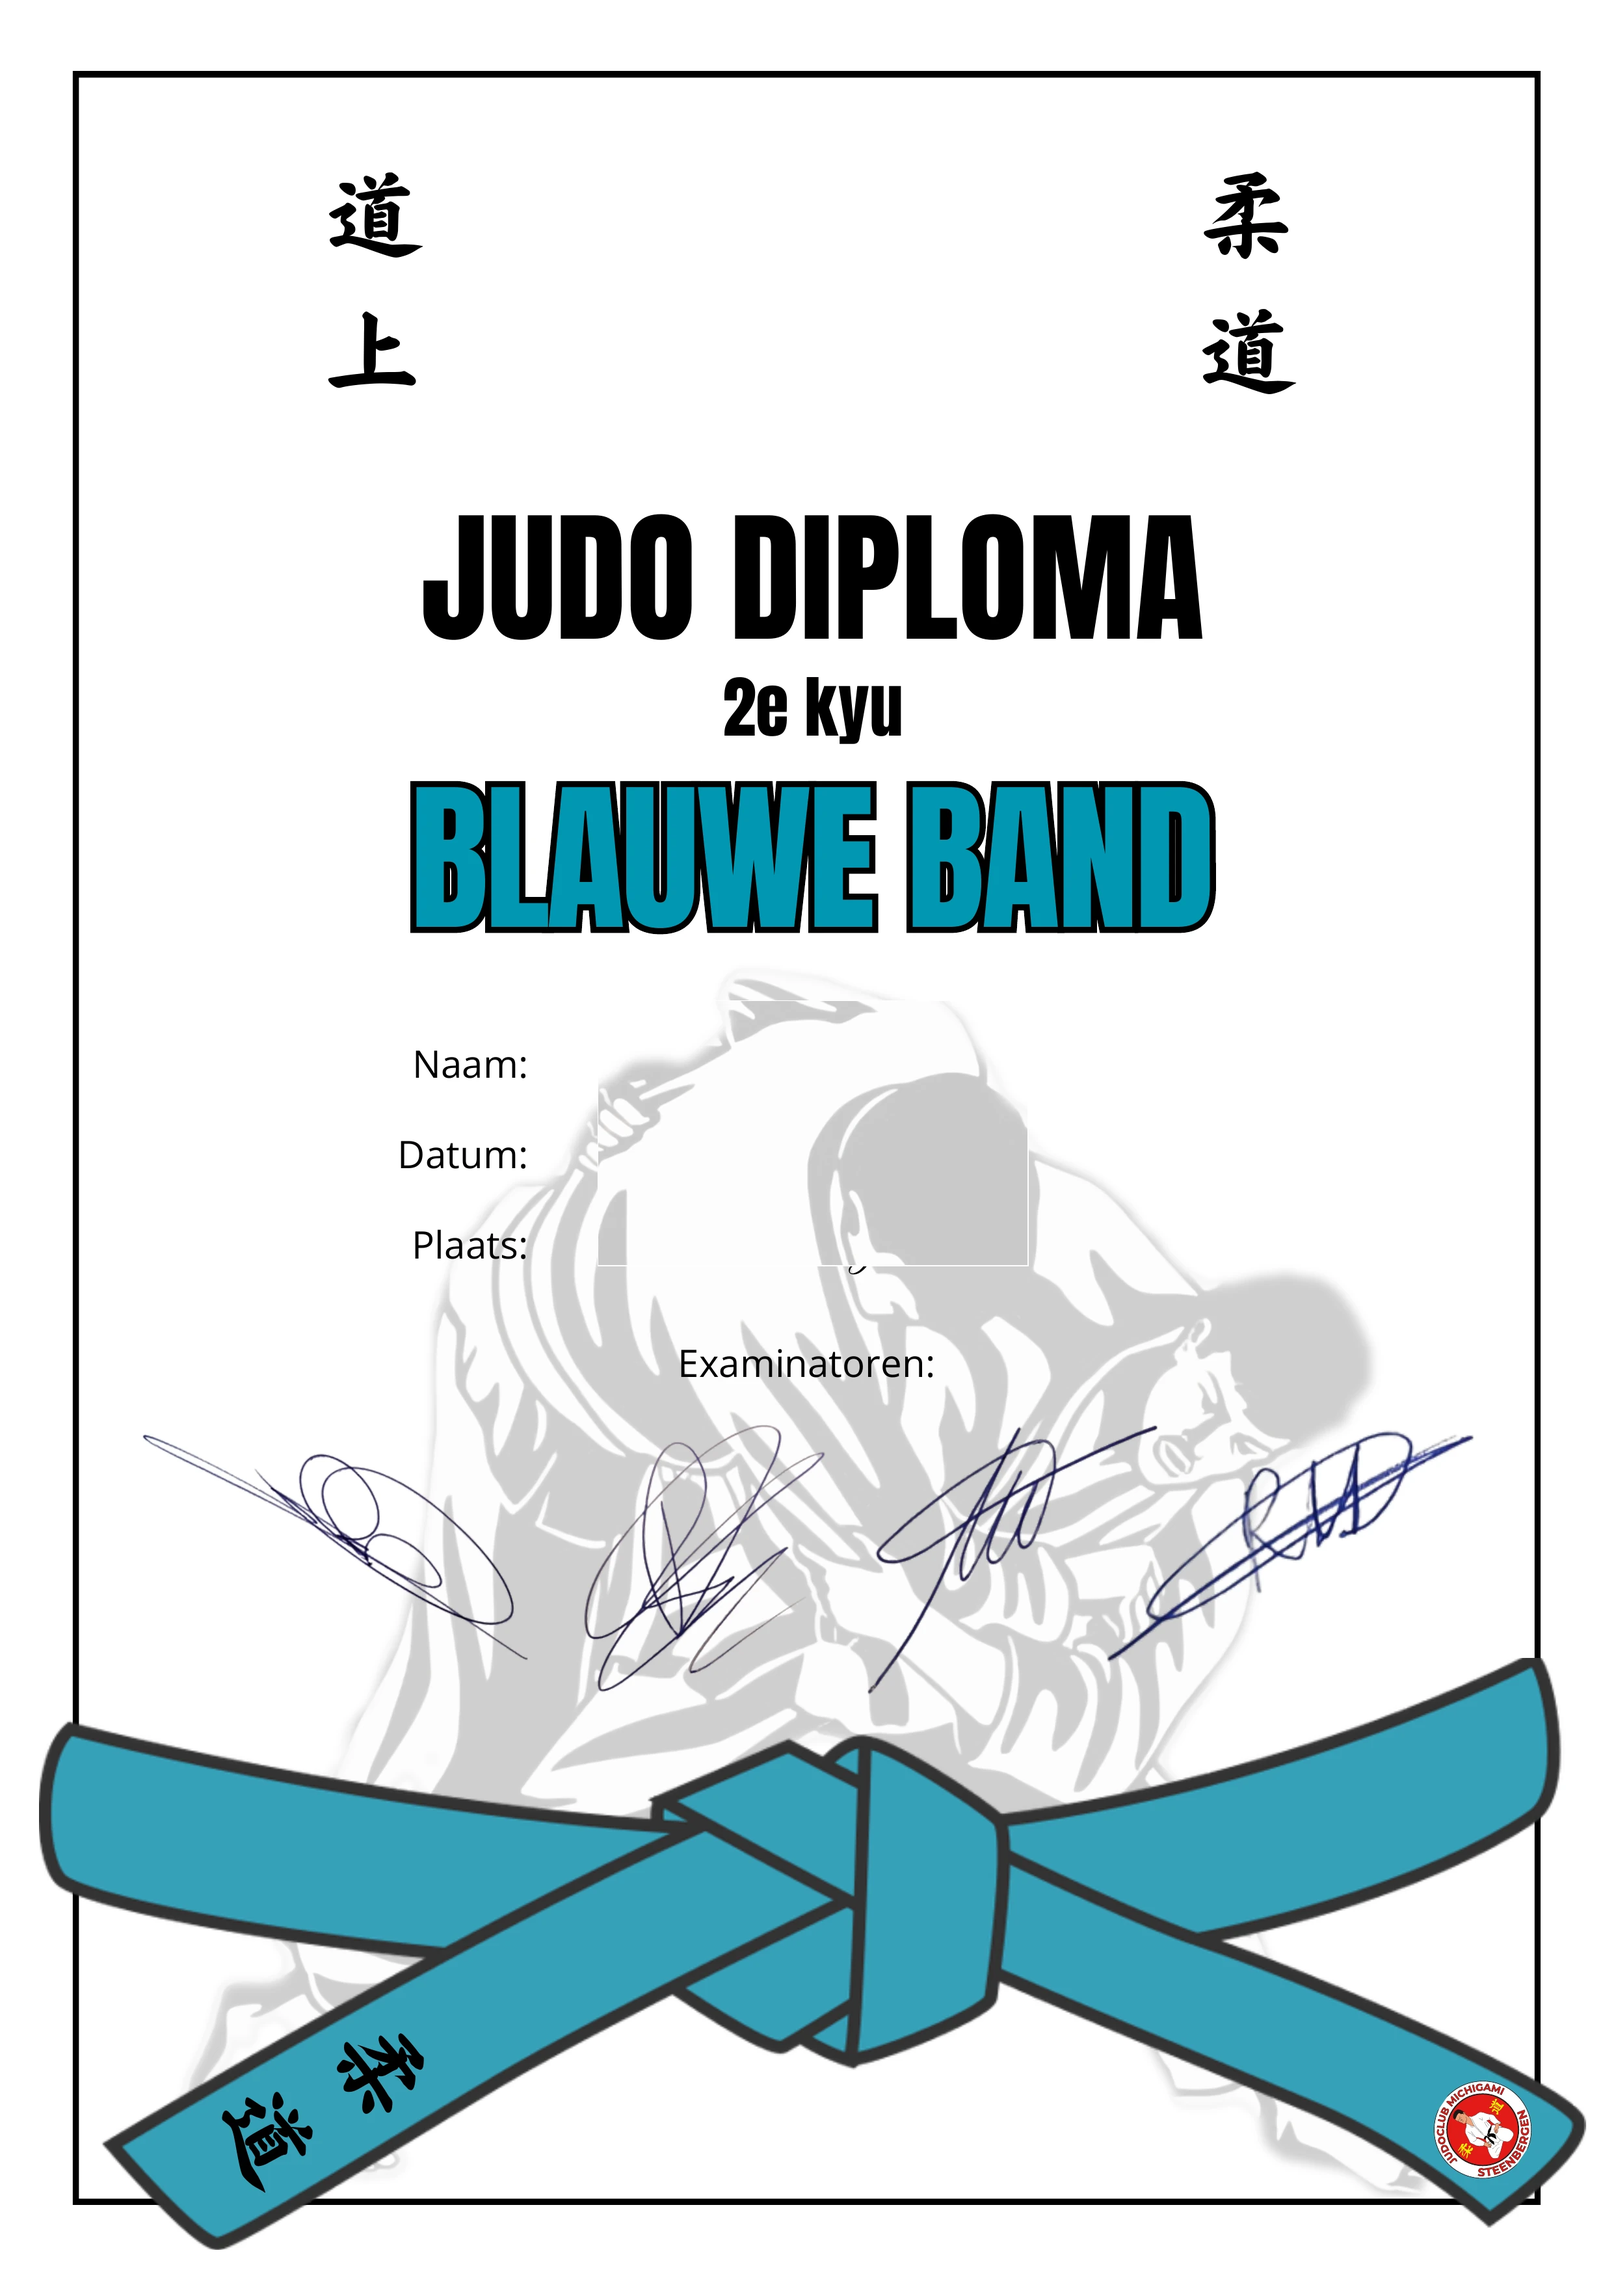
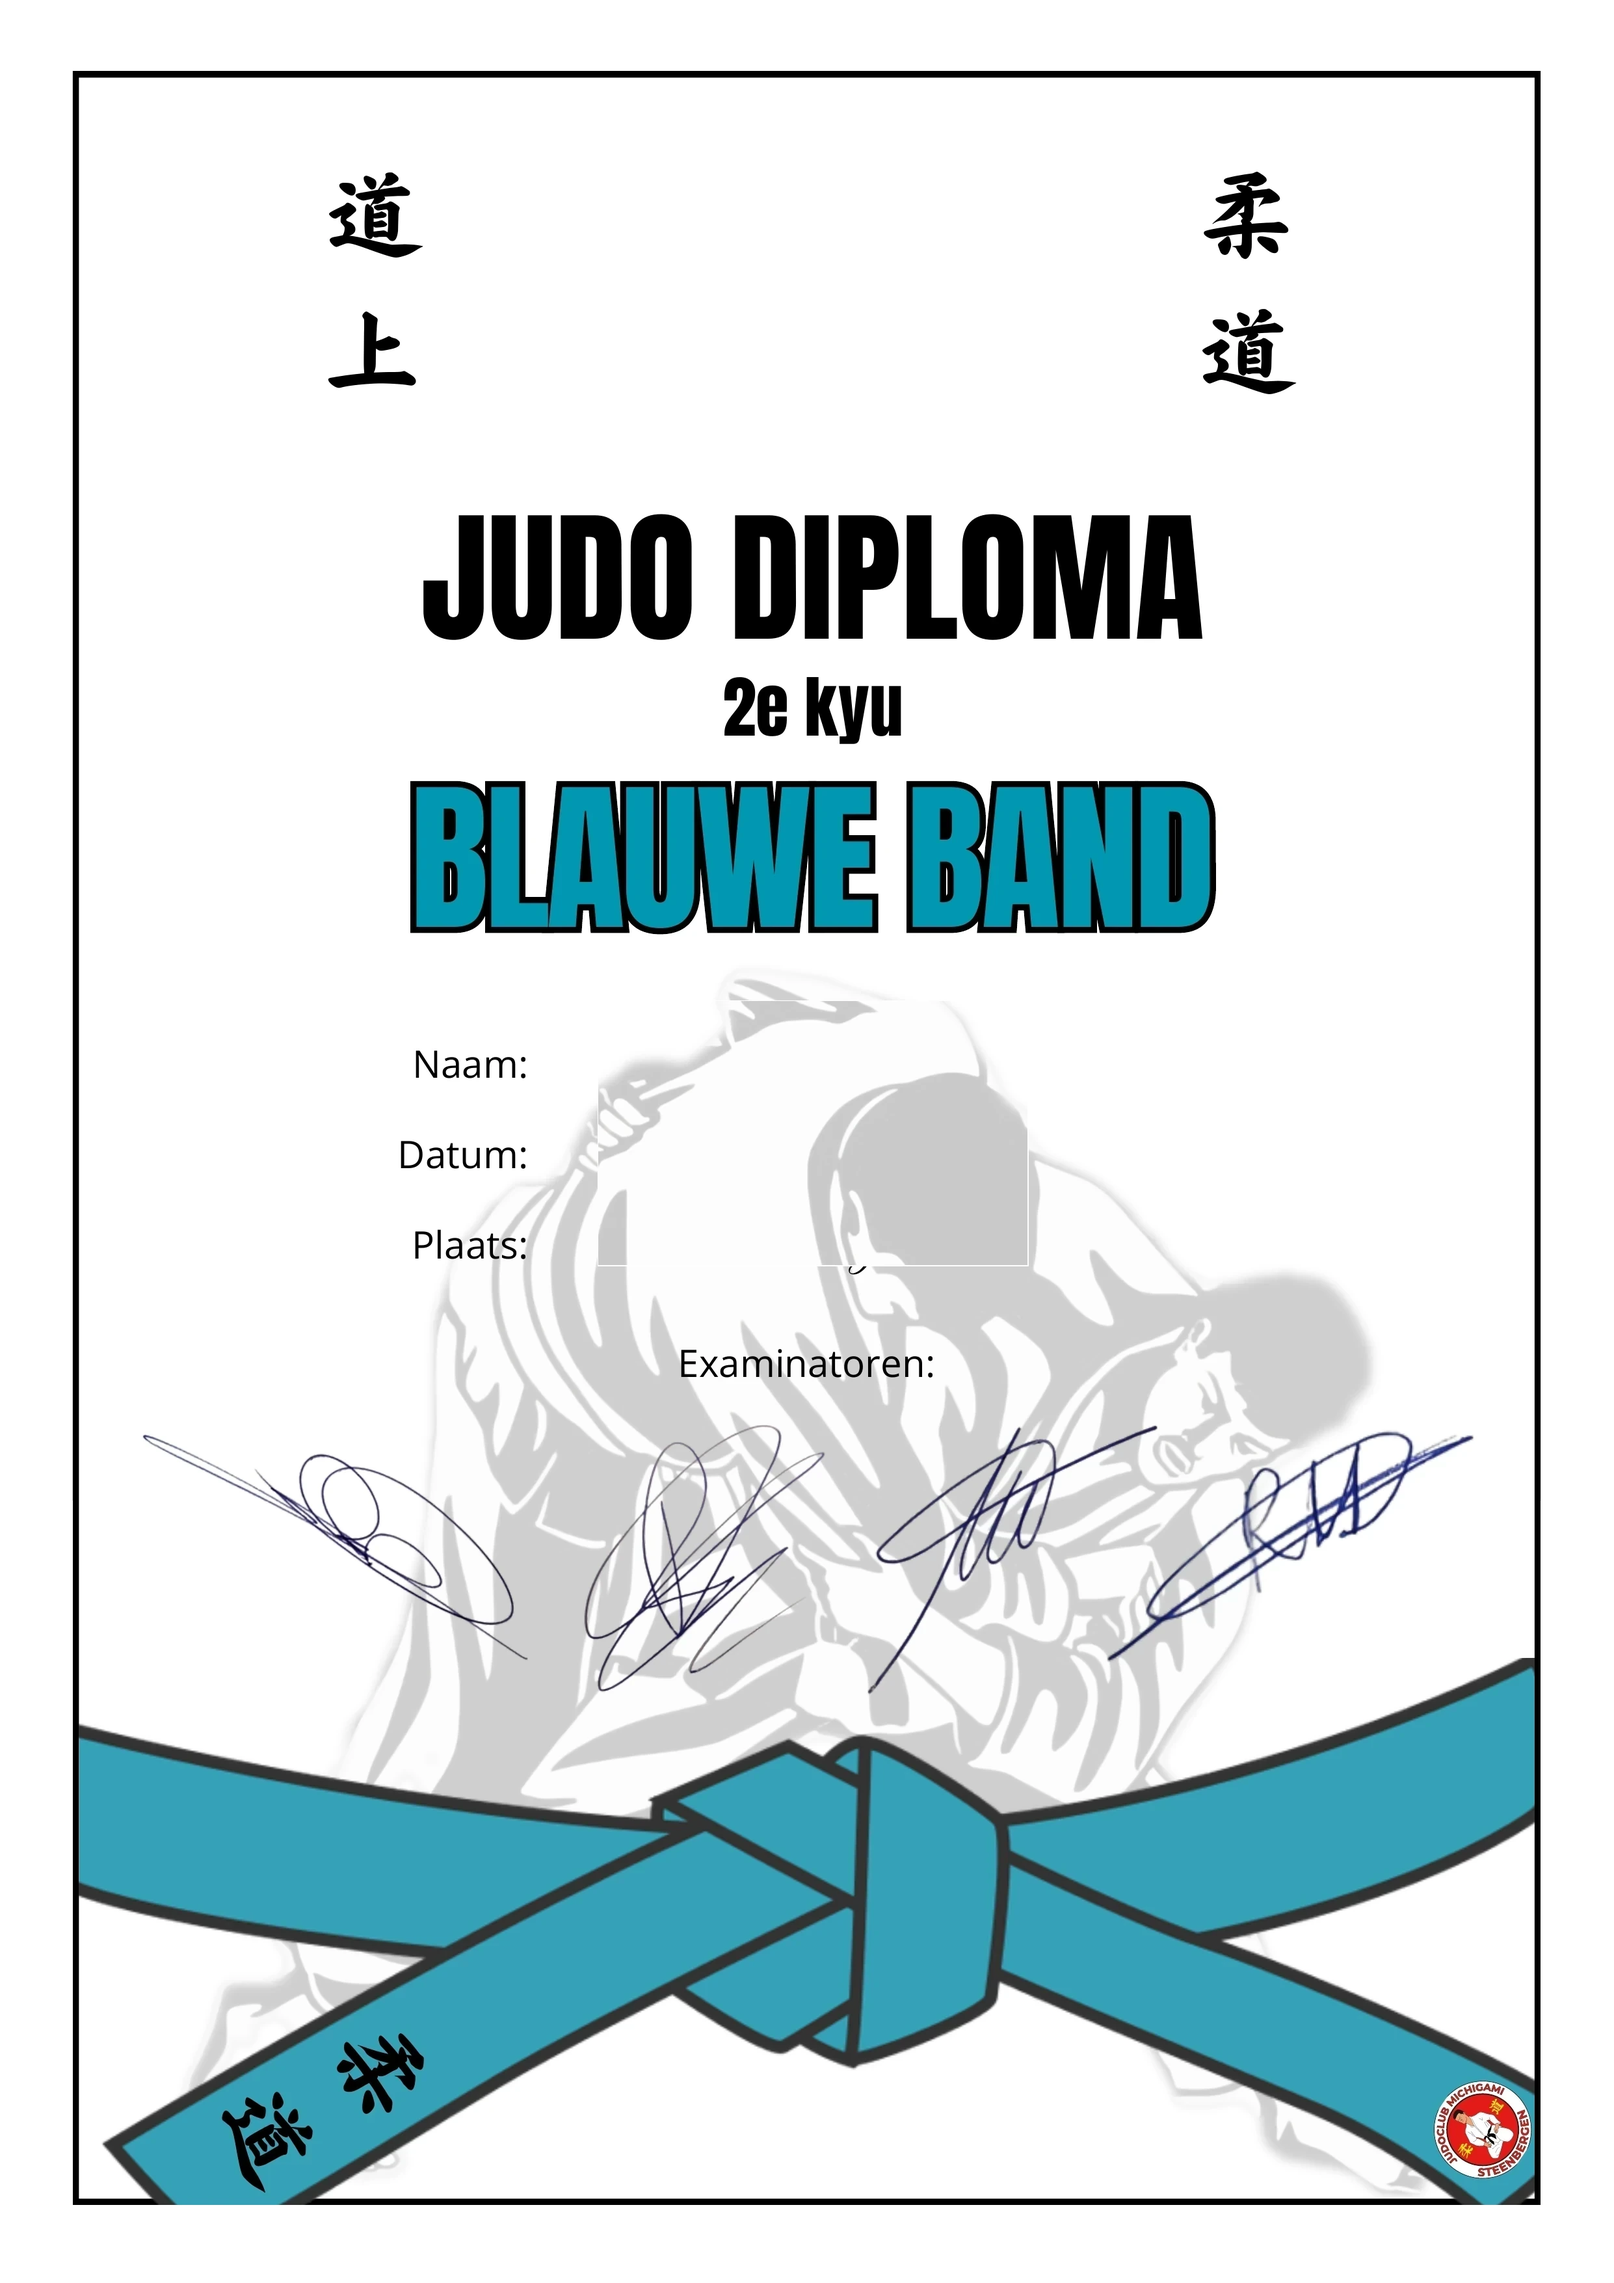
fix: diploma-bg's — sid-uiteinden/hangpunten ingekort tot achter kaderlijn (buiten onafdrukbare HP-rand), kaderlijnen doorgetekend, uitsteeksels onder onderrand verwijderd

diff --git a/public/sw.js b/public/sw.js
@@ -1,5 +1,5 @@
 /* PWA Service Worker — Judoclub Michigami */
-const CACHE_NAME = "michigami-v210-20261119";
+const CACHE_NAME = "michigami-v211-20261119";
 
 // Assets to pre-cache on install (critical for offline)
 const PRECACHE_URLS = [
